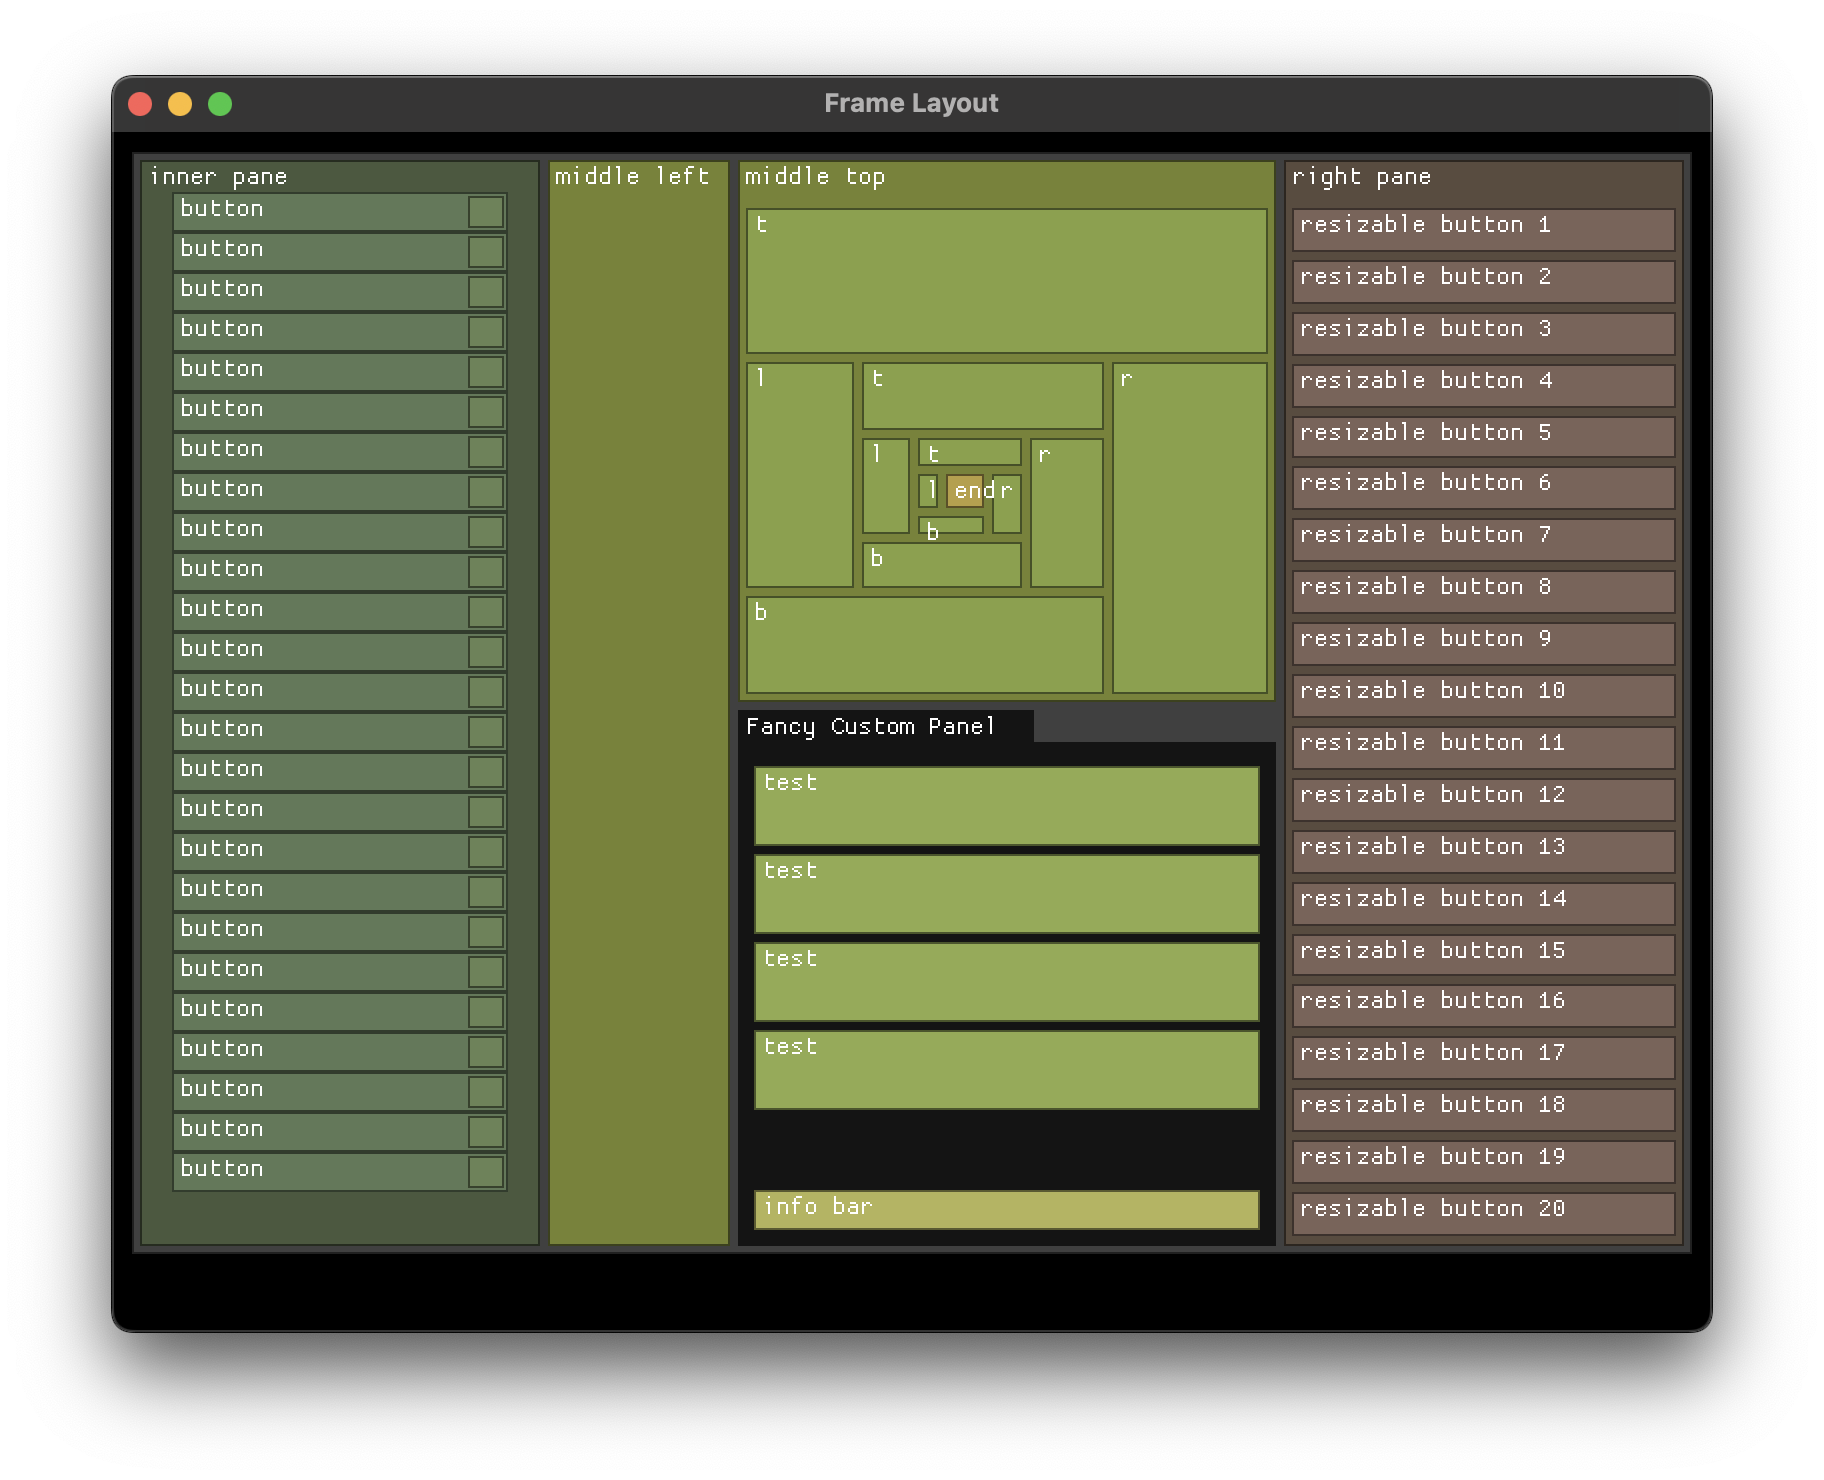
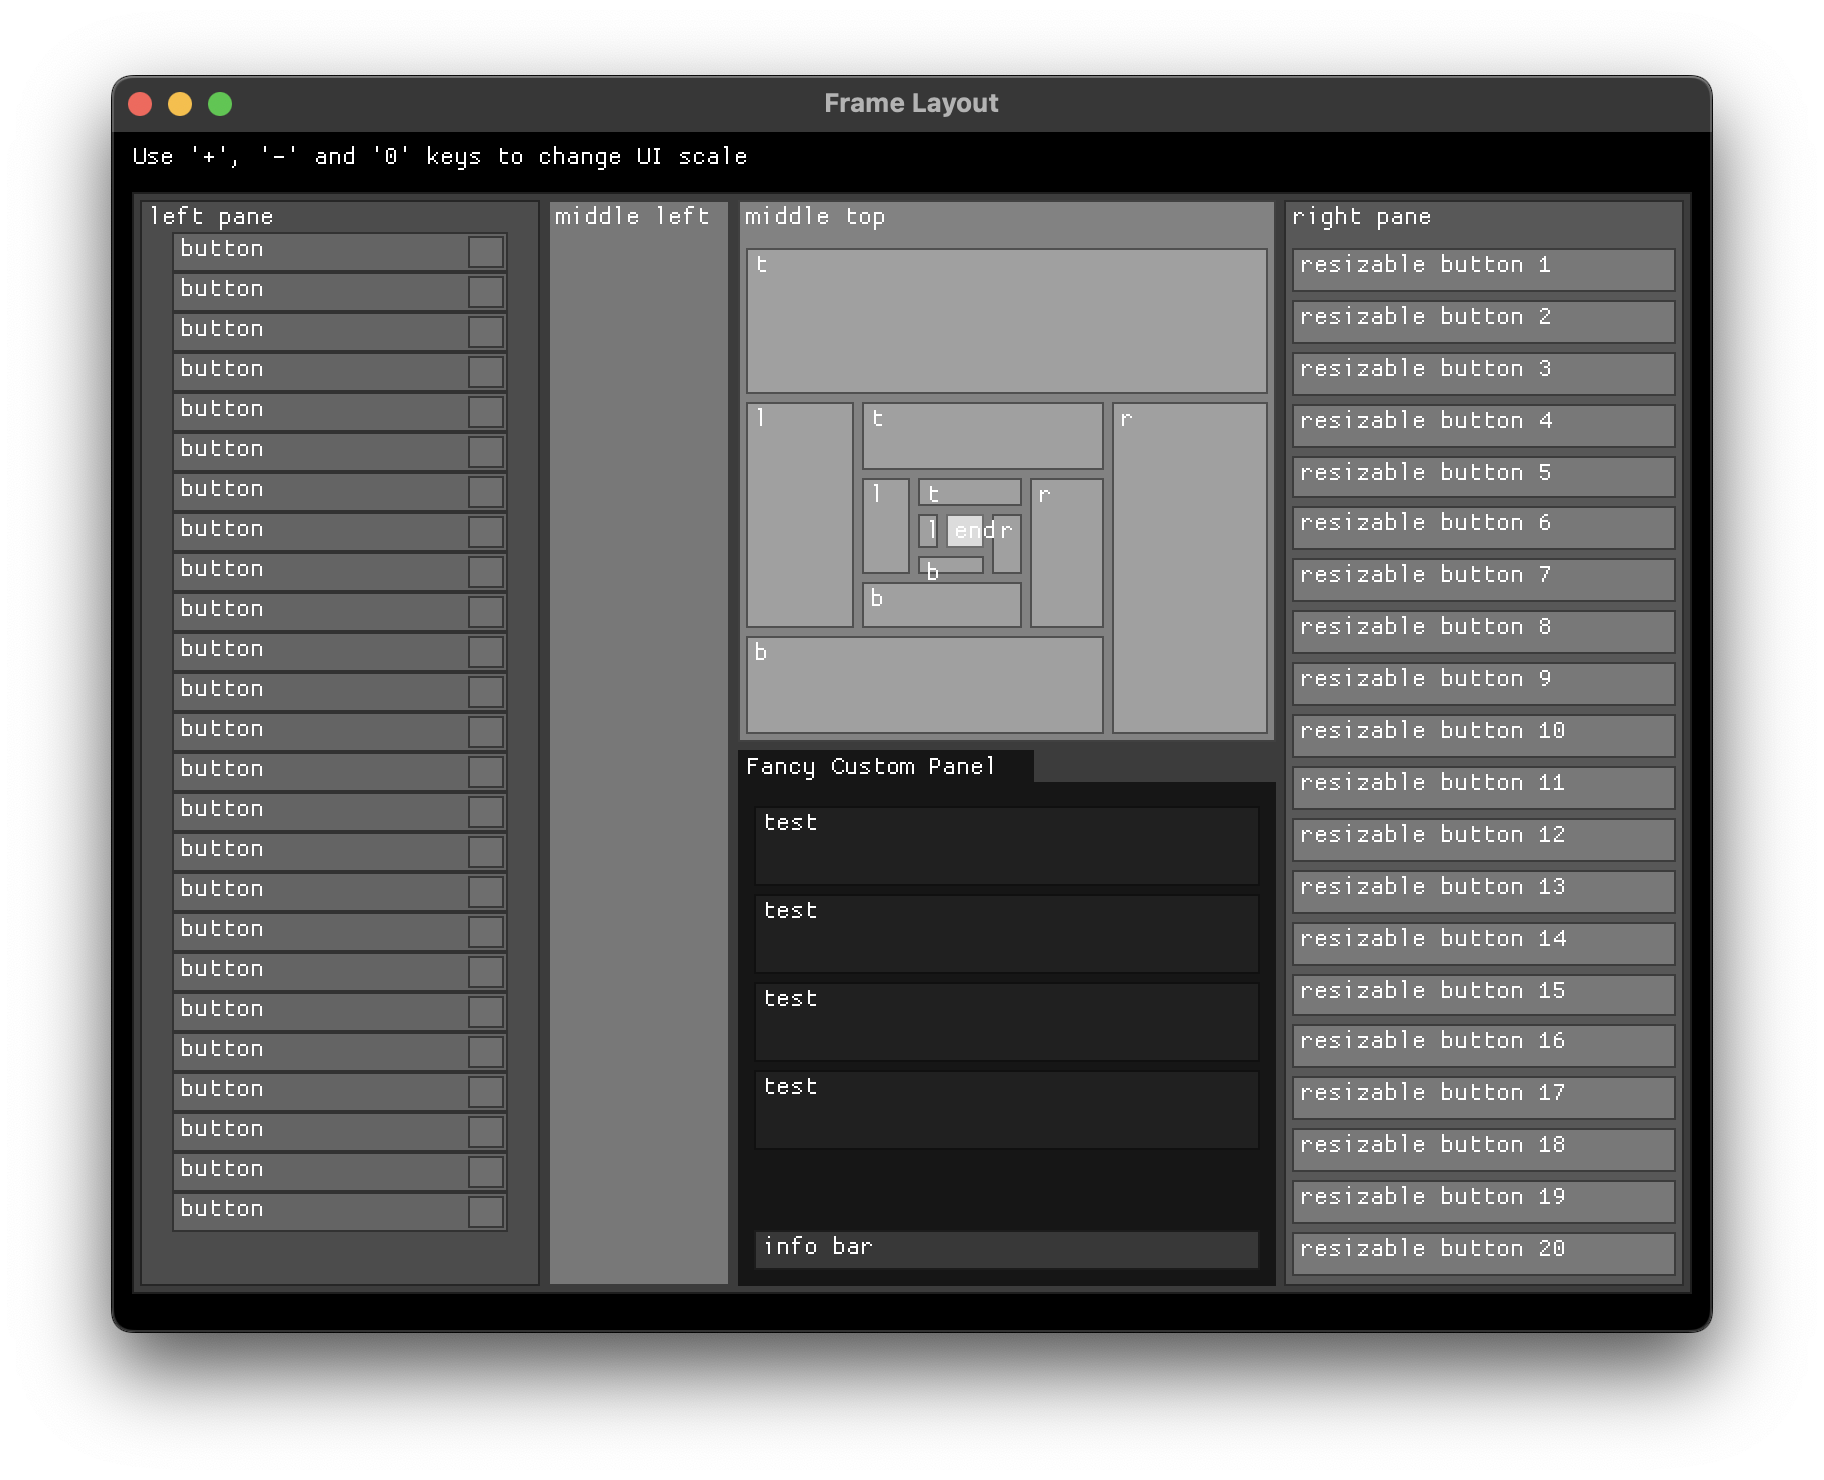
Docs, examples

diff --git a/example_mquad/src/main.rs b/example_mquad/src/main.rs
@@ -1,5 +1,5 @@
-use matte::{Frame, Num, Side::*};
 use macroquad::prelude::*;
+use matte::{Frame, Num, Side::*};
 
 #[macroquad::main("Frame Layout")]
 async fn main() {
@@ -19,10 +19,15 @@ async fn main() {
             scale = 1.0;
         }
         scale = scale.clamp(0.2, 2.0);
+        let fixed_text = TextParams {
+            font_size: 16,
+            ..Default::default()
+        };
 
-        // Drawing helper function
+        // Drawing helper function. Defined as a closure so that it can use the current
+        // "scale" without passing it as an argument
         let draw_rect = |rect: &matte::Rect<f32>, color: [u8; 4], text: String| {
-            let text_params = TextParams {
+            let rect_text = TextParams {
                 font_size: (16.0 * scale) as u16,
                 ..Default::default()
             };
@@ -35,14 +40,14 @@ async fn main() {
             let t = Vec2::new(4.0, 12.0) * scale;
             draw_rectangle(rect.x, rect.y, rect.w, rect.h, color.into());
             draw_rectangle_lines(rect.x, rect.y, rect.w, rect.h, 2.0, [0, 0, 0, 128].into());
-            draw_text_ex(text.as_str(), rect.x + t.x, rect.y + t.y, text_params);
+            draw_text_ex(text.as_str(), rect.x + t.x, rect.y + t.y, rect_text);
         };
 
         // Init Layout. Prevents negative values.
         // You can optionally clamp it to  a minimum UI size.
         let mut root = Frame::new(matte::Rect {
             x: 10.0,
-            y: 10.0,
+            y: 30.0,
             w: (width - 20.0).clamp(0.0, 8192.0),
             // Shorter so I can watch the culling behavior at the bottom
             h: (height - 20.0).clamp(0.0, 8192.0) * 0.95,
@@ -51,19 +56,20 @@ async fn main() {
         root.set_scale(scale);
 
         // Process Layout;
-        draw_rect(&root.rect(), [64, 64, 64, 255], "".to_string());
+        draw_text_ex("Use '+', '-' and '0' keys to change UI scale", 10.0, 16.0, fixed_text);
+        draw_rect(&root.rect(), [60, 60, 60, 255], "".to_string());
         // Left pane
         root.add(Left, 200.0, |pane| {
-            draw_rect(&pane.rect(), [76, 88, 64, 255], "inner pane".to_string());
+            draw_rect(&pane.rect(), [76, 76, 76, 255], "left pane".to_string());
             pane.set_margin(16.0);
             pane.set_gap(0.0);
             // Buttons
             for _n in 0..25 {
                 pane.add(Top, 20.0, |button| {
-                    draw_rect(&button.rect(), [100, 120, 90, 255], "button".to_string());
+                    draw_rect(&button.rect(), [100, 100, 100, 255], "button".to_string());
                     button.set_margin(2.0);
                     button.add(Right, 18.0, |icon| {
-                        draw_rect(&icon.rect(), [110, 130, 90, 255], "".to_string());
+                        draw_rect(&icon.rect(), [110, 110, 110, 255], "".to_string());
                     });
                 });
             }
@@ -71,7 +77,7 @@ async fn main() {
 
         // Right Pane
         root.add(Right, 200.0, |pane| {
-            draw_rect(&pane.rect(), [88, 76, 64, 255], "right pane".to_string());
+            draw_rect(&pane.rect(), [88, 88, 88, 255], "right pane".to_string());
             // pane.set_gap(10.0);
             let top_space = 16.0;
             pane.add(Top, top_space, |_space| {});
@@ -84,39 +90,39 @@ async fn main() {
             for n in 0..count {
                 pane.add(Top, button_size, |button| {
                     let text = format!("resizable button {}", n + 1);
-                    draw_rect(&button.rect(), [120, 100, 90, 255], text);
+                    draw_rect(&button.rect(), [120, 120, 120, 255], text);
                 });
             }
         });
 
         // Middle Left
         root.fill(Left, 0.25, |pane| {
-            draw_rect(&pane.rect(), [120, 130, 60, 255], "middle left".to_string());
+            draw_rect(&pane.rect(), [120, 120, 120, 255], "middle left".to_string());
         });
 
         // Middle Top
         root.fill(Top, 0.5, |pane| {
-            draw_rect(&pane.rect(), [120, 130, 60, 255], "middle top".to_string());
+            draw_rect(&pane.rect(), [130, 130, 130, 255], "middle top".to_string());
             let top_space = 16.0;
             pane.add(Top, top_space, |_space| {});
             // Spiral rects!
             let ratio = 0.3;
             for _ in 0..3 {
                 pane.fill(Top, ratio, |pane| {
-                    draw_rect(&pane.rect(), [140, 160, 80, 255], "t".to_string());
+                    draw_rect(&pane.rect(), [160, 160, 160, 255], "t".to_string());
                 });
                 pane.fill(Right, ratio, |pane| {
-                    draw_rect(&pane.rect(), [140, 160, 80, 255], "r".to_string());
+                    draw_rect(&pane.rect(), [160, 160, 160, 255], "r".to_string());
                 });
                 pane.fill(Bottom, ratio, |pane| {
-                    draw_rect(&pane.rect(), [140, 160, 80, 255], "b".to_string());
+                    draw_rect(&pane.rect(), [160, 160, 160, 255], "b".to_string());
                 });
                 pane.fill(Left, ratio, |pane| {
-                    draw_rect(&pane.rect(), [140, 160, 80, 255], "l".to_string());
+                    draw_rect(&pane.rect(), [160, 160, 160, 255], "l".to_string());
                 });
             }
             pane.fill(Left, 1.0, |pane| {
-                draw_rect(&pane.rect(), [180, 160, 80, 255], "end".to_string());
+                draw_rect(&pane.rect(), [220, 220, 220, 255], "end".to_string());
             });
         });
 

diff --git a/example_basic/src/main.rs b/example_basic/src/main.rs
@@ -9,11 +9,11 @@ async fn main() {
         let (width, height) = (screen_width(), screen_height());
 
         // Drawing helper function. Converts Rect types between
-        // matte and macroquad, then draws it.
-        let draw_rect = |rect: &matte::Rect<f32>, thickness: f32| {
+        // matte's and macroquad's, then draws it.
+        fn draw_rect(rect: &matte::Rect<f32>, thickness: f32) {
             let rect = macroquad::math::Rect::new(rect.x, rect.y, rect.w, rect.h);
             draw_rectangle_lines(rect.x, rect.y, rect.w, rect.h, thickness, BLACK);
-        };
+        }
 
         // Init Layout. Prevents negative values.
         // You can optionally clamp it to  a minimum UI size.

diff --git a/readme.md b/readme.md
@@ -1,6 +1,6 @@
 # Matte
 
-An **_immediate mode_**, minimalist, **_no_std_** and **_no allocations_** layout library for rectangular elements (Frames), intended for games, embedded systems, and other constrained environments.
+A minimalist **_immediate mode_**, **_no_std_** and **_no allocations_** layout library for rectangular elements (Frames), intended for games, embedded systems, and other constrained environments. **Matte does not perform any rendering**, it simply lays out nested rectangles (Frames) with margins and gaps between children.
 
 While easy to use, Matte's approach is very limited and can't create complex layouts! There's simply the function [Frame::add()], to add fixed size elements, and [Frame::fill()] for proportional elements. Both can operate from any side (Left, Right, Top, and Bottom). Repeatedly adding from the same side is analogous to using a "Row" or "Column" in a more complex GUI library.
 
@@ -12,7 +12,10 @@ It also does not know in advance the size of the children, so you may need to do
 
 ![LayframeScreenshot](screenshots/screenshot.png)
 
-Two examples are provided: a more complex one using Macroquad for rendering, and a very simple one using MiniSdl (which in turn uses SDL2).
+Three examples are provided:
+- *example_basic*, A very simple example using Macroquad for rect rendering.
+- *example_mquad*, a more complex layout using Macroquad with text and adjustable zoom.
+- *example_sdl*, which uses SDL2 (via the mini_sdl crate).
 
 ## Usage Example
 
